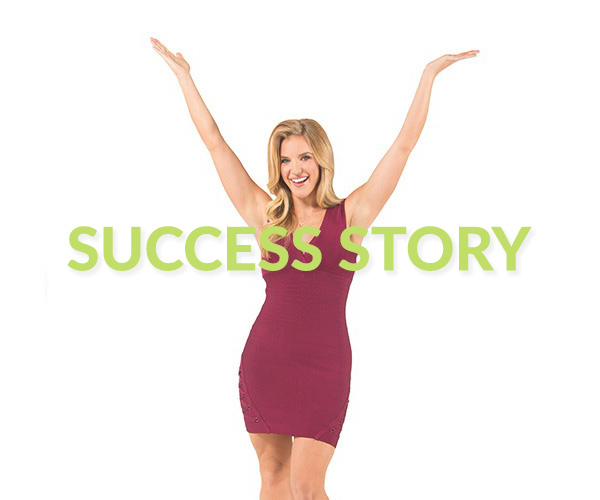
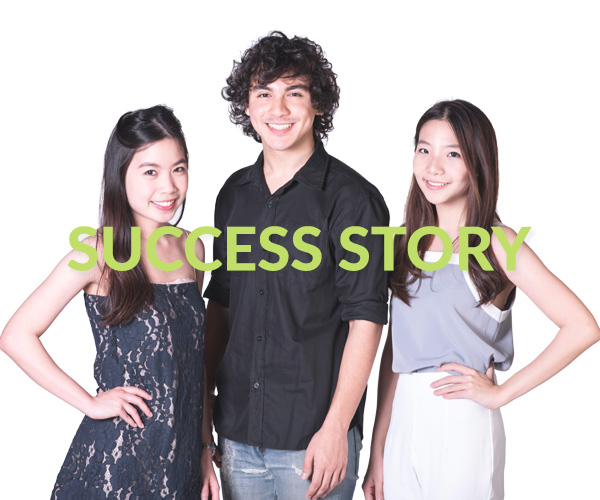
Update change password, Update pictures, and fix bugs

diff --git a/public/js/app.js b/public/js/app.js
@@ -266,25 +266,31 @@ chevApp.controller('homeController', function($scope, $rootScope){
 
 	$scope.slides = [
 	    {
-	      image: 'public/img/ban1.png'
+	      image: 'public/img/ban1.jpg'
 	    },
 	    {
-	      image: 'public/img/ban2.png'
+	      image: 'public/img/ban2.jpg'
 	    },
 	    {
-	      image: 'public/img/ban3.png'
+	      image: 'public/img/ban3.jpg'
+	    },
+	    {
+	      image: 'public/img/banner_test.jpg'
 	    }
 	 ];
 
 	 $scope.slides1 = [
 	    {
-	      image: 'public/img/NEW_BANNER1_MOBILE.png'
+	      image: 'public/img/NEW_BANNER1_MOBILE.jpg'
 	    },
 	    {
-	      image: 'public/img/NEW_BANNER2_MOBILE.png'
+	      image: 'public/img/NEW_BANNER2_MOBILE.jpg'
 	    },
 	    {
-	      image: 'public/img/NEW_BANNER3_MOBILE.png'
+	      image: 'public/img/NEW_BANNER3_MOBILE.jpg'
+	    },
+	    {
+	      image: 'public/img/mobile_testBanner.jpg'
 	    }
 	 ];
 
@@ -544,50 +550,50 @@ chevApp.controller('signupController', function($scope, $rootScope, Users){
 	$scope.signup = function() {
 		// var SignUp = $resource('public/user');
 		// var feedback = SignUp.post()
-		if($scope.form.password != $scope.form.confirm_password){
-			showMessage($scope, "รหัสผ่านไม่ตรงกัน", "alertFailed", ".alertBox", 10000);
-		}
-		else {
-			var genderTemp = $scope.form.gender;
-			$scope.form.gender = $scope.form.gender['val'];
-			$scope.form._token = $rootScope.user_csrf;
-			console.log($scope.form.gender);
-			var feedback = Users.store($scope.form, function(val){
-				showMessage($scope, "สมัครสมาชิกเสร็จสิ้น", "alertSuccess", ".alertBox", 10000);
-				$rootScope.isLogin = true;
-				$rootScope.userInfo = val['user'];
-			}, function(res){
-				var errorList = JSON.parse(res['data']['error']['message']);
-				errorList = errorList['messages'];
-				$scope.valid = {};
+		
+		var genderTemp = $scope.form.gender;
+		$scope.form.gender = $scope.form.gender['val'];
+		$scope.form._token = $rootScope.user_csrf;
+		console.log($scope.form.gender);
+		var feedback = Users.store($scope.form, function(val){
+			showMessage($scope, "สมัครสมาชิกเสร็จสิ้น", "alertSuccess", ".alertBox", 10000);
+			$rootScope.isLogin = true;
+			$rootScope.userInfo = val['user'];
+		}, function(res){
+			var errorList = JSON.parse(res['data']['error']['message']);
+			errorList = errorList['messages'];
+			$scope.valid = {};
+			console.log("HELLO");
 
-				var errorMsg = "<u style='text-align:center;'>เกิดข้อผิดพลาด</u> <br /> ";
-				for (var i = 0; i < errorList.length; i++) {
-					if(errorList[i] === "email_missing")
-						$scope.valid.email = "ไม่ได้เติมอีเมล์";
-					else if(errorList[i] === "password_missing")
-						$scope.valid.password = "ไม่ได้เติมรหัสผ่าน";
-					else if(errorList[i] === "tel_missing")
-						$scope.valid.tel = "ไม่ได้เติมเบอร์โทรศัพท์";
-					else if(errorList[i] === "name_first_missing")
-						$scope.valid.name_first = "ไม่ได้เติมชื่อ";
-					else if(errorList[i] === "name_last_missing")
-						$scope.valid.name_last = "ไม่ได้เติมนามสกุล";
-					else if(errorList[i] === "password_length")
-						$scope.valid.password = "ความยาวรหัสผ่านไม่ครบ";
-					else if(errorList[i] === "email_length")
-						$scope.valid.email = "ความยาวอีเมล์ไม่ครบ";
-					else if(errorList[i] === "email_found")
-						$scope.valid.email = "อีเมล์นี้ได้ใช้ไปแล้ว";
-					else if(errorList[i] === "tel_length")
-						$scope.valid.tel = "ความยาวเบอร์โทรศัพท์ไม่ครบ";
+			var errorMsg = "<u style='text-align:center;'>เกิดข้อผิดพลาด</u> <br /> ";
+			for (var i = 0; i < errorList.length; i++) {
+				if(errorList[i] === "email_missing")
+					$scope.valid.email = "ไม่ได้เติมอีเมล์";
+				else if(errorList[i] === "password_missing")
+					$scope.valid.password = "ไม่ได้เติมรหัสผ่าน";
+				else if(errorList[i] === "tel_missing")
+					$scope.valid.tel = "ไม่ได้เติมเบอร์โทรศัพท์";
+				else if(errorList[i] === "name_first_missing")
+					$scope.valid.name_first = "ไม่ได้เติมชื่อ";
+				else if(errorList[i] === "name_last_missing")
+					$scope.valid.name_last = "ไม่ได้เติมนามสกุล";
+				else if(errorList[i] === "password_length")
+					$scope.valid.password = "ความยาวรหัสผ่านไม่ครบ";
+				else if(errorList[i] === "email_length")
+					$scope.valid.email = "ความยาวอีเมล์ไม่ครบ";
+				else if(errorList[i] === "email_found")
+					$scope.valid.email = "อีเมล์นี้ได้ใช้ไปแล้ว";
+				else if(errorList[i] === "tel_length")
+					$scope.valid.tel = "ความยาวเบอร์โทรศัพท์ไม่ครบ";
 
-				};
-				// showMessage($scope, errorMsg, "alertFailed", ".alertBox", 10000);
-				$scope.form.gender = genderTemp;
-			});
+			};
+			// showMessage($scope, errorMsg, "alertFailed", ".alertBox", 10000);
+			if($scope.form.password != $scope.form.confirm_password)
+				$scope.valid.password = "รหัสผ่านไม่ตรงกัน";
+			$scope.form.gender = genderTemp;
+		});
 			// console.log(feedback); 
-		}
+	
 		
 
 	}
@@ -701,17 +707,49 @@ chevApp.controller('userController', function($scope, $rootScope, $location, $re
 
 	$scope.updatePassword = function(){
 		var newPassword = {
-			"newPassword": $scope.newPassword,
-			"confirmNewPassword": $scope.confirmNewPassword
+			"password_old": $scope.oldPassword,
+			"password_new": $scope.newPassword
 		};
+		$scope.valid = {};
 
-		var ChangePass = $resource('public/changePass', {'_token': $rootScope.user_csrf }, {'changePass' : {method:'POST'}});
+		var ChangePass = $resource('public/changepassword', {'_token': $rootScope.user_csrf }, {'changePass' : {method:'POST'}});
 
-		ChangePass.changePass(newPassword, function(val){
-			console.log("TEST");
-		}, function(res){
-			console.log("ERROR!");
-		});
+		if($scope.newPassword != $scope.confirmNewPassword){
+			$scope.valid.password = "รหัสผ่านไม่ตรงกัน";
+
+		} else {
+			ChangePass.changePass(newPassword, function(val){
+				console.log("TEST");
+				$('#changePassword').modal("hide");
+				$scope.oldPassword = "";
+				$scope.newPassword = "";
+				$scope.confirmNewPassword = "";
+				// $scope.valid = {};
+			}, function(res){
+				console.log("ERROR!");
+
+				var errorList = JSON.parse(res['data']['error']['message']);
+					errorList = errorList['messages'];
+					
+					$scope.valid = {};
+
+					for (var i = 0; i < errorList.length; i++) {
+						if(errorList[i] === "password_missing")
+							$scope.valid.password = "กรุณากรอกรหัสผ่าน";
+						else if(errorList[i] === "password_length")
+							$scope.valid.password = "รหัสผ่าสั้นเกินไป";
+						else if(errorList[i] === "password_not_match")
+							$scope.valid.oldPassword = "รหัสผ่านเดิมไม่ถูกต้อง";
+
+
+						
+					};
+			});
+
+
+		}
+
+		
 	}
 
 	$scope.newAddressDlg = function(){

diff --git a/public/pages/user.html b/public/pages/user.html
@@ -22,7 +22,7 @@
 	<div class="col-md-12">
 		<div >
 			<h3 >ข้อมูล่วนตัว 	<!-- <a ng-click="editUserInfo()" class="{{userInfoShow}} float-right" ng-hide="userInfoView">Edit</a> -->
-				<button class="default-btn float-right" style="font-size:0.5em; margin-left: 1em;" data-toggle="modal" data-target="#changePassword"><b>เปลี่ยนรหัสผ่าน</b></button>
+				<button class="default-btn float-right" style="font-size:0.5em; margin-left: 1em;" data-toggle="modal" data-target="#changePassword" ng-hide="userInfo.facebook"><b>เปลี่ยนรหัสผ่าน</b></button>
 				<button ng-click="editUserInfo()" class="default-btn float-right {{userInfoShow}}" style="font-size:0.5em" data-toggle="modal" data-target="#editUserInfo"><i class="glyphicon glyphicon-pencil"></i></button>
 			</h3>
 		</div>
@@ -154,15 +154,20 @@
 	      <div class="modal-body">
 	        <form>
 				<div class="col-sm-12">
-					<label for="newPassword">รหัสผ่านใหม่</label>
-					<input class="small-input" ng-class="(valid.newPassword !== undefined)? 'invalid':''" type="password" ng-model="newPassword" name="newPassword" required>
-					<div class="noti" ng-bind="valid.newPassword"></div>
+					<label for="oldPassword">รหัสผ่านเดิม</label>
+					<input class="small-input" ng-class="(valid.oldPassword !== undefined)? 'invalid':''" type="password" ng-model="oldPassword" name="oldPassword" required>
+					<div class="noti" ng-bind="valid.oldPassword"></div>
 				</div>
 				<div class="clear"></div>
 				<div class="col-sm-12">
+					<label for="confirmNewPassword">รหัสผ่านใหม่</label>
+					<input class="small-input" ng-class="(valid.confirmNewPassword !== undefined)? 'invalid':''" type="password" ng-model="newPassword" name="newPassword" required>
+					<div class="noti" ng-bind="valid.password"></div>
+				</div>
+				<div class="col-sm-12">
 					<label for="confirmNewPassword">ยืนยันรหัสผ่านใหม่</label>
 					<input class="small-input" ng-class="(valid.confirmNewPassword !== undefined)? 'invalid':''" type="password" ng-model="confirmNewPassword" name="confirmNewPassword" required>
-					<div class="noti" ng-bind="valid.confirmNewPassword"></div>
+					<div class="noti" ng-bind="valid.password"></div>
 				</div>
 				<div class="clear"></div>
 			</form>

diff --git a/public/pages/successStory.html b/public/pages/successStory.html
@@ -18,7 +18,7 @@
     <div class="row bottom-space">
       <div class="col-sm-4">
         <div class="border-padding">
-          <img class="cir-img" style="width: 100%;" src="public/img/15days.jpg" alt="Cat">
+          <img class="cir-img" style="width: 100%;" src="public/img/ZCH_0194.jpg" alt="Cat">
         </div>
 
         <h2>Text</h2>
@@ -29,7 +29,7 @@
       </div>
       <div class="col-sm-4">
         <div class="border-padding">
-          <img class="cir-img" style="width: 100%;" src="public/img/15days.jpg" alt="Cat">
+          <img class="cir-img" style="width: 100%;" src="public/img/ZCH_0239.jpg" alt="Cat">
         </div>
 
         <h2>Text</h2>
@@ -40,7 +40,7 @@
       </div>
       <div class="col-sm-4">
         <div class="border-padding">
-          <img class="cir-img" style="width: 100%;" src="public/img/15days.jpg" alt="Cat">
+          <img class="cir-img" style="width: 100%;" src="public/img/ZCH_0315.jpg" alt="Cat">
         </div>
 
         <h2>Text</h2>

diff --git a/public/pages/home.html b/public/pages/home.html
@@ -80,8 +80,8 @@
     <!-- Mid page picture -->
     <div class="jumbotron midjumbo no-padding hidden-overflow" data-stellar-background-ratio="0.5" data-stellar-vertical-offset="100">
       <a href="products">
-        <img src="public/img/promotion2_mini.jpg" class="promotion-img auto-hide-mobile-small" alt="" >
-        <img src="public/img/promotionProduct.jpg" class="auto-show-mobile-small" style="width:100%;" alt="" >
+        <img src="public/img/promotion22_mini.jpg" class="promotion-img auto-hide-mobile-small" alt="" >
+        <img src="public/img/promotionProduct2.jpg" class="auto-show-mobile-small" style="width:100%;" alt="" >
       </a>
       <div class="container">
         <!-- <div class="jumbotext"><div class="title">โปรโมชั่น</div></div>

diff --git a/public/pages/products.html b/public/pages/products.html
@@ -19,7 +19,7 @@
 		<div style="height: 2em"></div>
 		<!-- <div class="col-md-1"></div> -->
 		<div class="col-md-5" style="padding-top: 2em;">
-			<img src="public/img/promotionProduct.jpg" style="width:100%;" class="max-width-400"  alt="Product">
+			<img src="public/img/promotionProduct2.jpg" style="width:100%;" class="max-width-400"  alt="Product">
 		</div>
 		<div class="col-md-7 bottom-space left" style="padding-top:0.8em">
 			<h1 class="left">3Plus Promotion - 3พลัส โปรโมชั่น</h1>

diff --git a/app/controllers/UserController.php b/app/controllers/UserController.php
@@ -660,10 +660,52 @@ class UserController extends BaseController {
 		$user = Auth::user();
 		$password_old = Input::get('password_old');
 		$password_new = Input::get('password_new');
-		if( strlen($password_old)>0 && !Hash::check($password_old, $user->password))
-	        return Response::json('PASSWORD IS INCORRECT');
+
+		$rules = array(
+			// 'email' => 'required|min:4|unique:user',
+			'password_new' => 'required|min:7',
+			// 'tel' => 'required|min:8', //Numeric is number only.
+			// 'name_first' => 'required', //Alpha is alphabet only
+			// 'name_last' => 'required', //Thus, Firstname and Lastname should be English.
+			// 'name' => 'unique_name', //Test for uniqueness of name (name_first + name_last)
+			);
+
+
+		$messages = array(
+			// 'email.required' => 'email_missing',
+			// 'email.min' => 'email_length',
+			// 'email.unique' => 'email_found',
+			'password_new.required' => 'password_missing',
+			'password_new.min' => 'password_length',
+			// 'tel.required' => 'tel_missing',
+			// 'tel.min' => 'tel_length',
+			// 'name_first.required' => 'name_first_missing',
+			// 'name_last.required' => 'name_last_missing',
+			// 'name.unique_name' => 'name_found'
+			);
+
+		$validator = Validator::make(array(
+			'password_new' => $password_new
+			), 
+			$rules, 
+			$messages);
+
+
+		if($validator->fails())
+			App::abort('400', json_encode(array(
+				'because' => 'validate_fail',
+				'messages' => $validator->messages()->all()
+				)));
+
+
+
+		if( strlen($password_old)<=0 && !Hash::check($password_old, $user->password))
+	        App::abort('400', json_encode(array(
+	        		'because' => 'validate_fail',
+					'messages' => array('password_not_match')
+	        	)));
 	    else{
-	    	$user->password = Hash::make($new_password);
+	    	$user->password = Hash::make($password_new);
 	    	$user->save();
 	    	return Response::json('SUCCESSFULLY');
 	    }
